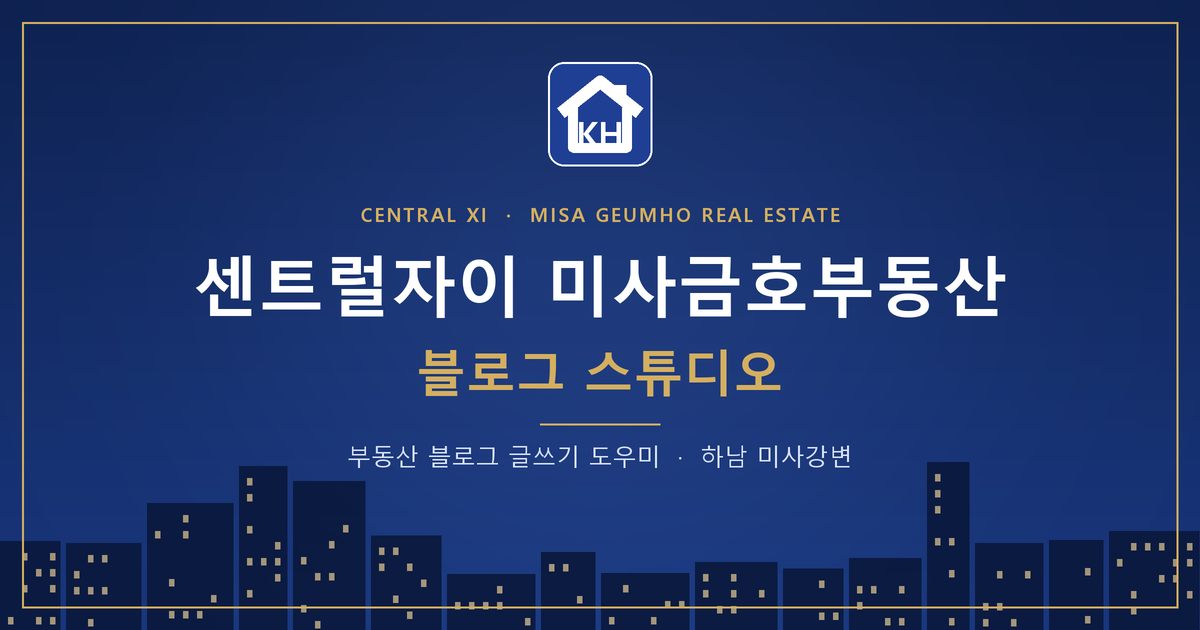
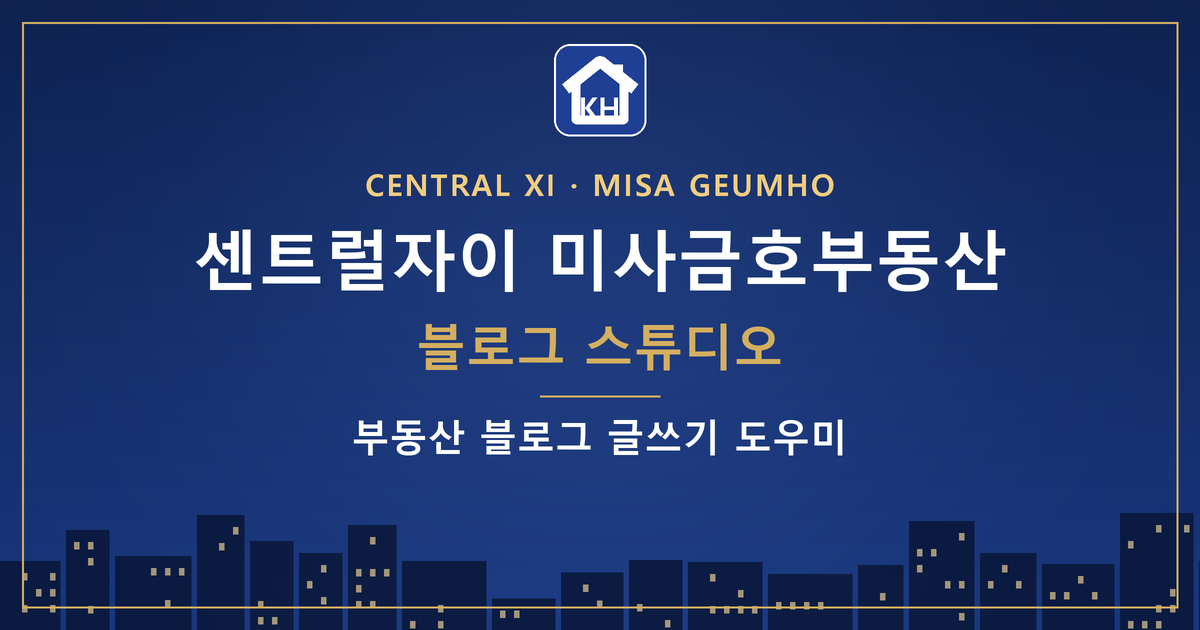
Enlarge small text on share thumbnail

Changed region(s): [[0.1542, 0.0603, 0.8325, 0.6333], [0.0, 0.7238, 1.0, 1.0], [0.2775, 0.6635, 0.7092, 0.754]]

diff --git a/index.html b/index.html
@@ -5,7 +5,7 @@
 <meta property="og:title" content="센트럴자이 미사금호부동산 블로그 스튜디오">
 <meta property="og:description" content="부동산 블로그 글쓰기 도우미">
 <meta property="og:url" content="https://hong0229.github.io/claude-blog2/">
-<meta property="og:image" content="https://hong0229.github.io/claude-blog2/og-thumbnail.png?v=1">
+<meta property="og:image" content="https://hong0229.github.io/claude-blog2/og-thumbnail.png?v=2">
 <meta property="og:image:width" content="1200">
 <meta property="og:image:height" content="630">
 <meta name="twitter:card" content="summary_large_image">

diff --git a/landlanguage-blog-studio.html b/landlanguage-blog-studio.html
@@ -5,7 +5,7 @@
 <meta property="og:title" content="센트럴자이 미사금호부동산 블로그 스튜디오">
 <meta property="og:description" content="부동산 블로그 글쓰기 도우미">
 <meta property="og:url" content="https://hong0229.github.io/claude-blog2/">
-<meta property="og:image" content="https://hong0229.github.io/claude-blog2/og-thumbnail.png?v=1">
+<meta property="og:image" content="https://hong0229.github.io/claude-blog2/og-thumbnail.png?v=2">
 <meta property="og:image:width" content="1200">
 <meta property="og:image:height" content="630">
 <meta name="twitter:card" content="summary_large_image">
